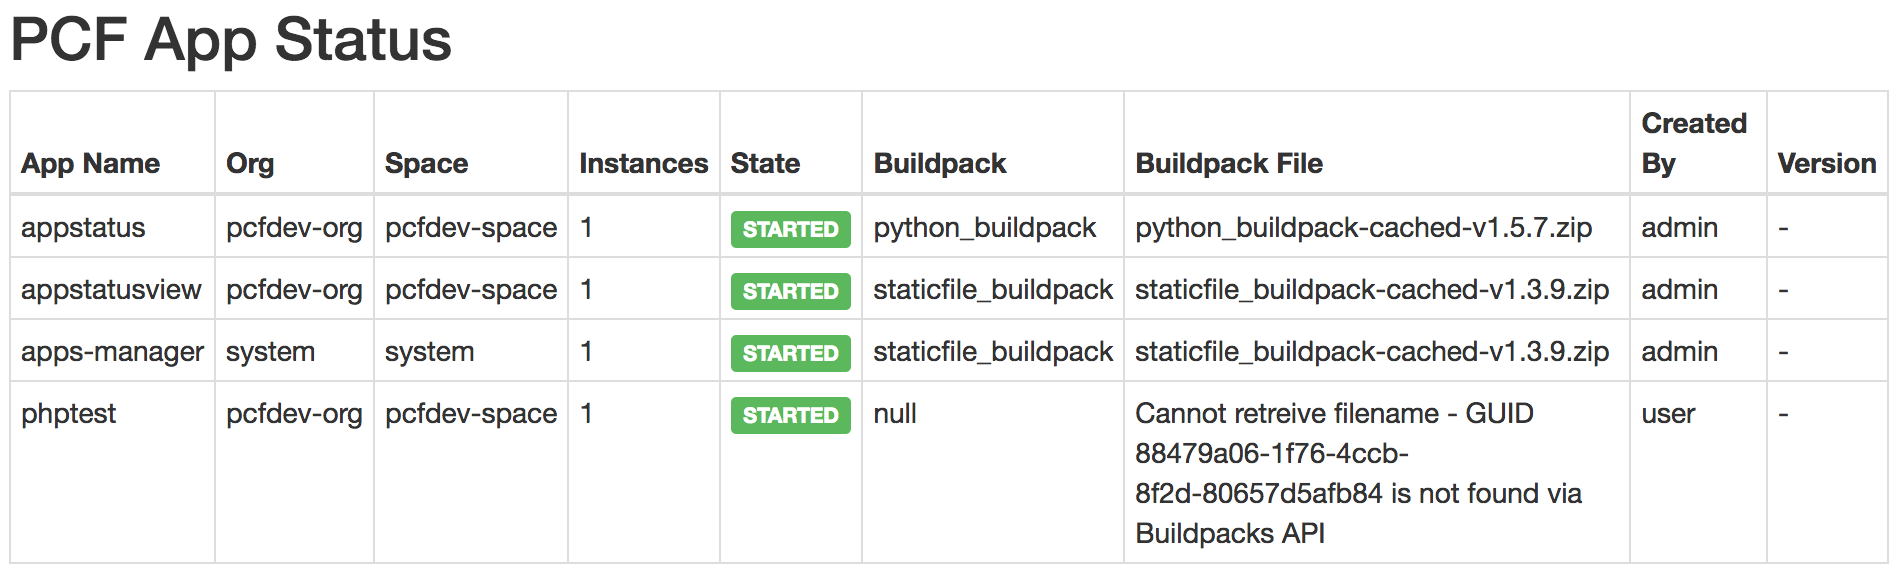
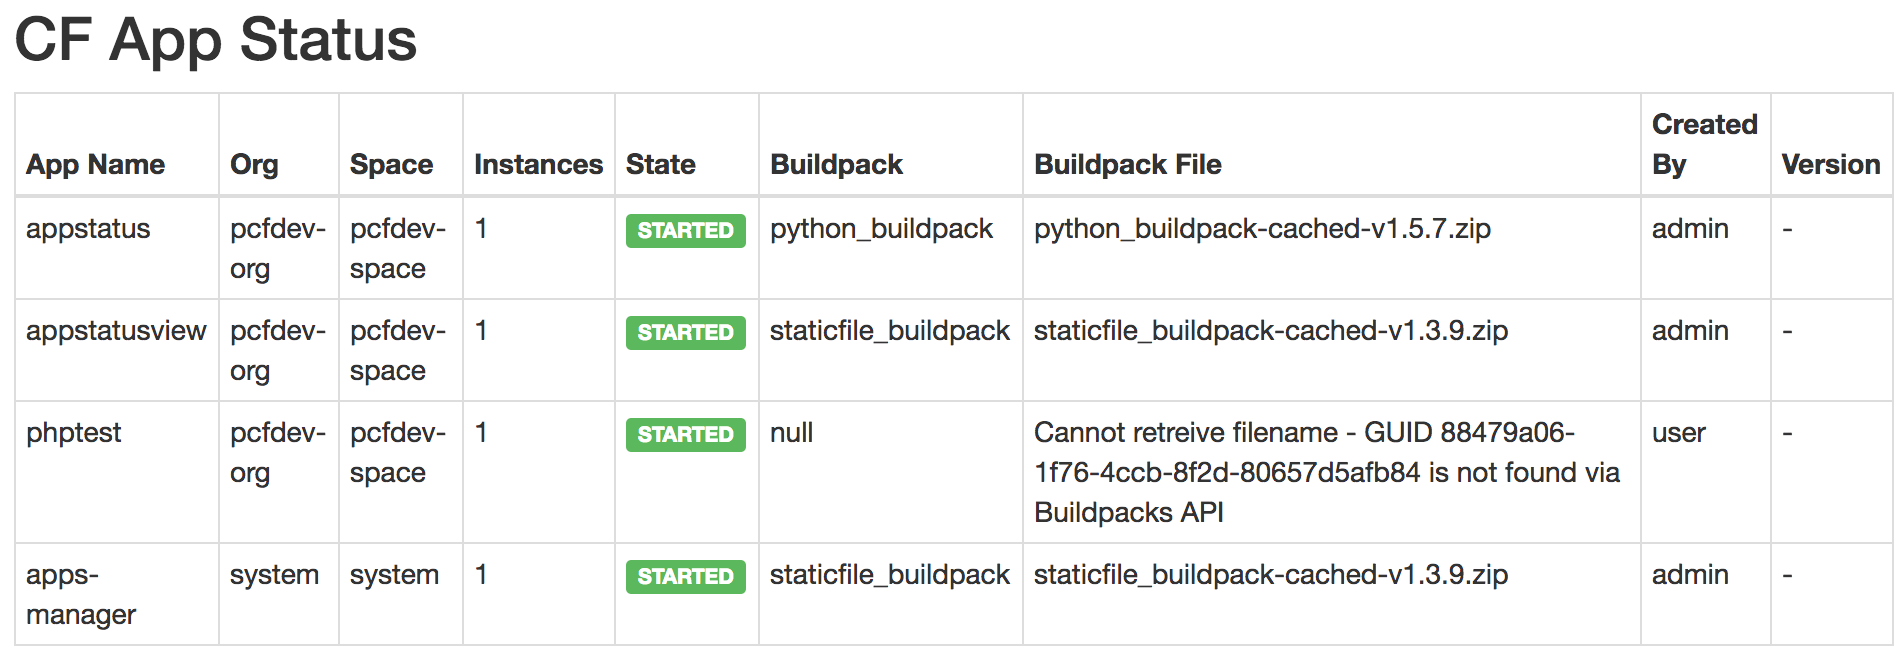
Changed to CF in title. Only uses standard CF API

diff --git a/appstatusview/index.html b/appstatusview/index.html
@@ -18,17 +18,12 @@ http://www.davidadamojr.com/handling-cors-requests-in-flask-restful-apis/
 
 -->
 <script>
-function iExist() {
-  console.log('i exist');
-}
-
 $(document).ready(function(){
-iExist();
+
 var xhr=new XMLHttpRequest();
 
 //Default data
 var json = [{"app_name":"-","org_name":"-","space_name":"-","instances":"-","state":"-","buildpack":"-", "buildpackfile":"-","createdby":"-","ALM_VERSION":"-"}];
-
 
 //xhr.open("GET","http://localhost:8080/api/v1.0/apps",false);
 xhr.open("GET",appConfig.restApi,false);
@@ -57,7 +52,7 @@ $("#tbody").jPut({
 </script>
 
 <div class="container">
-  <h2>PCF App Status</h2>
+  <h2>CF App Status</h2>
   <!--<p>The .table-condensed class makes a table more compact by cutting cell padding in half:</p>
 http://stackoverflow.com/questions/5180382/convert-json-data-to-a-html-table
   -->
